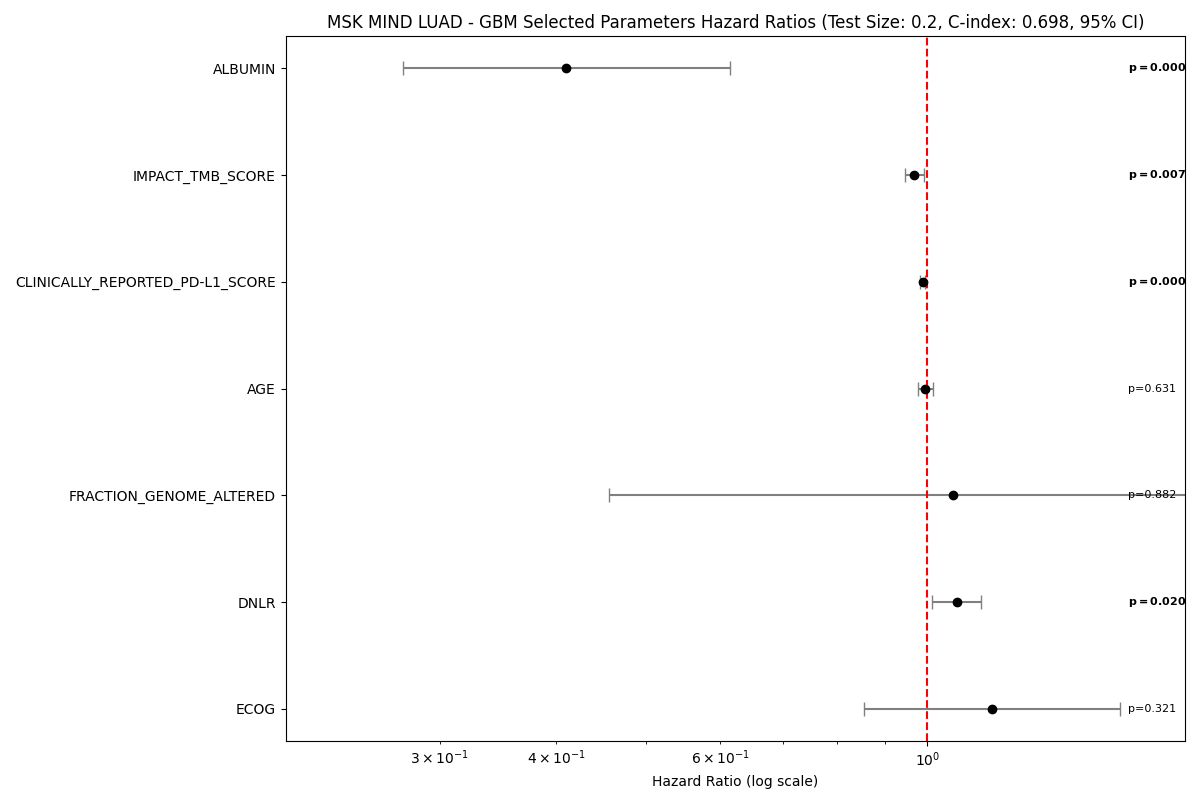
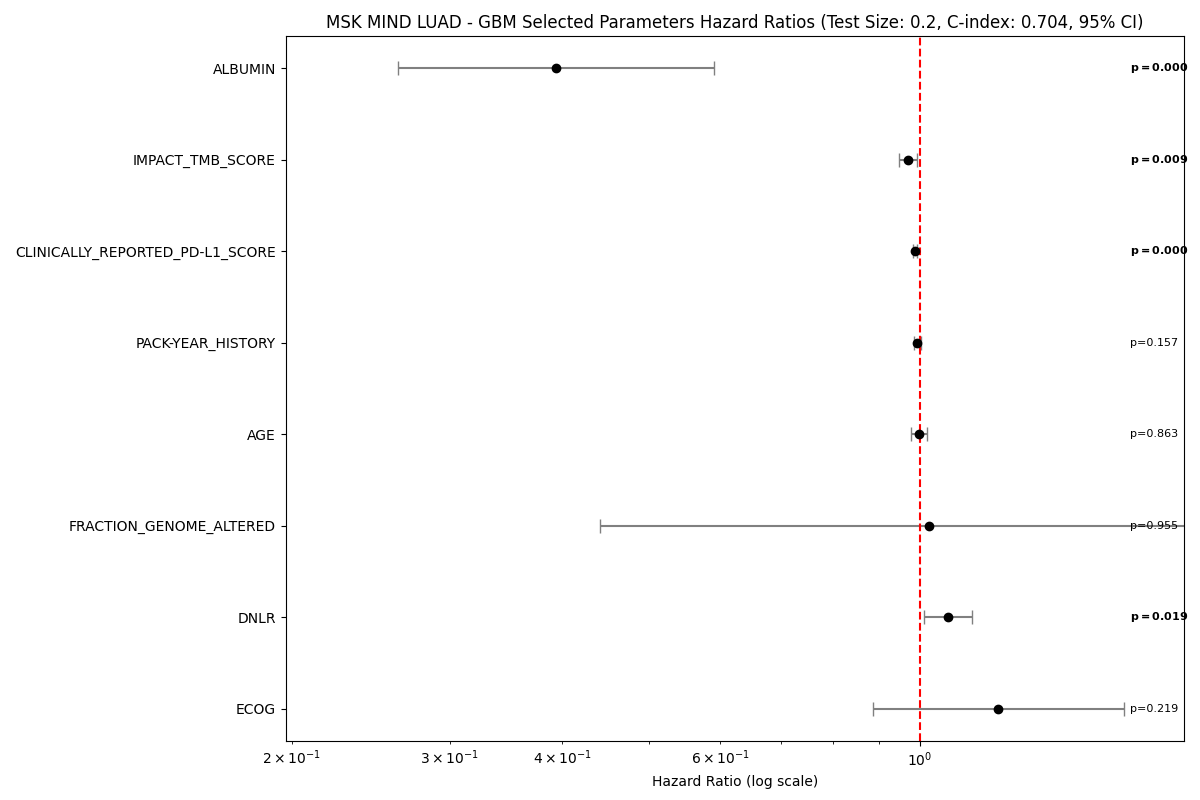
rerun gbm

diff --git a/coxph-0.2split-gbm.py b/coxph-0.2split-gbm.py
@@ -171,10 +171,7 @@ def run_model(df, name):
 # Without treatment data
 surv = pd.read_csv('survival.csv')
 
-parameters = ["IMPACT_TMB_SCORE", "CLINICALLY_REPORTED_PD-L1_SCORE", "ALBUMIN", "DNLR", "AGE", "FRACTION_GENOME_ALTERED","ECOG"]
-
-# some unknown, some NA, some cigars
-surv.drop(columns= ["PACK-YEAR_HISTORY"], inplace=True)
+parameters = ["IMPACT_TMB_SCORE", "CLINICALLY_REPORTED_PD-L1_SCORE", "ALBUMIN", "DNLR", "AGE", "FRACTION_GENOME_ALTERED","ECOG", "PACK-YEAR_HISTORY"]
 
 surv = surv[parameters + ['PFS_MONTHS', 'PFS_STATUS']]
 
